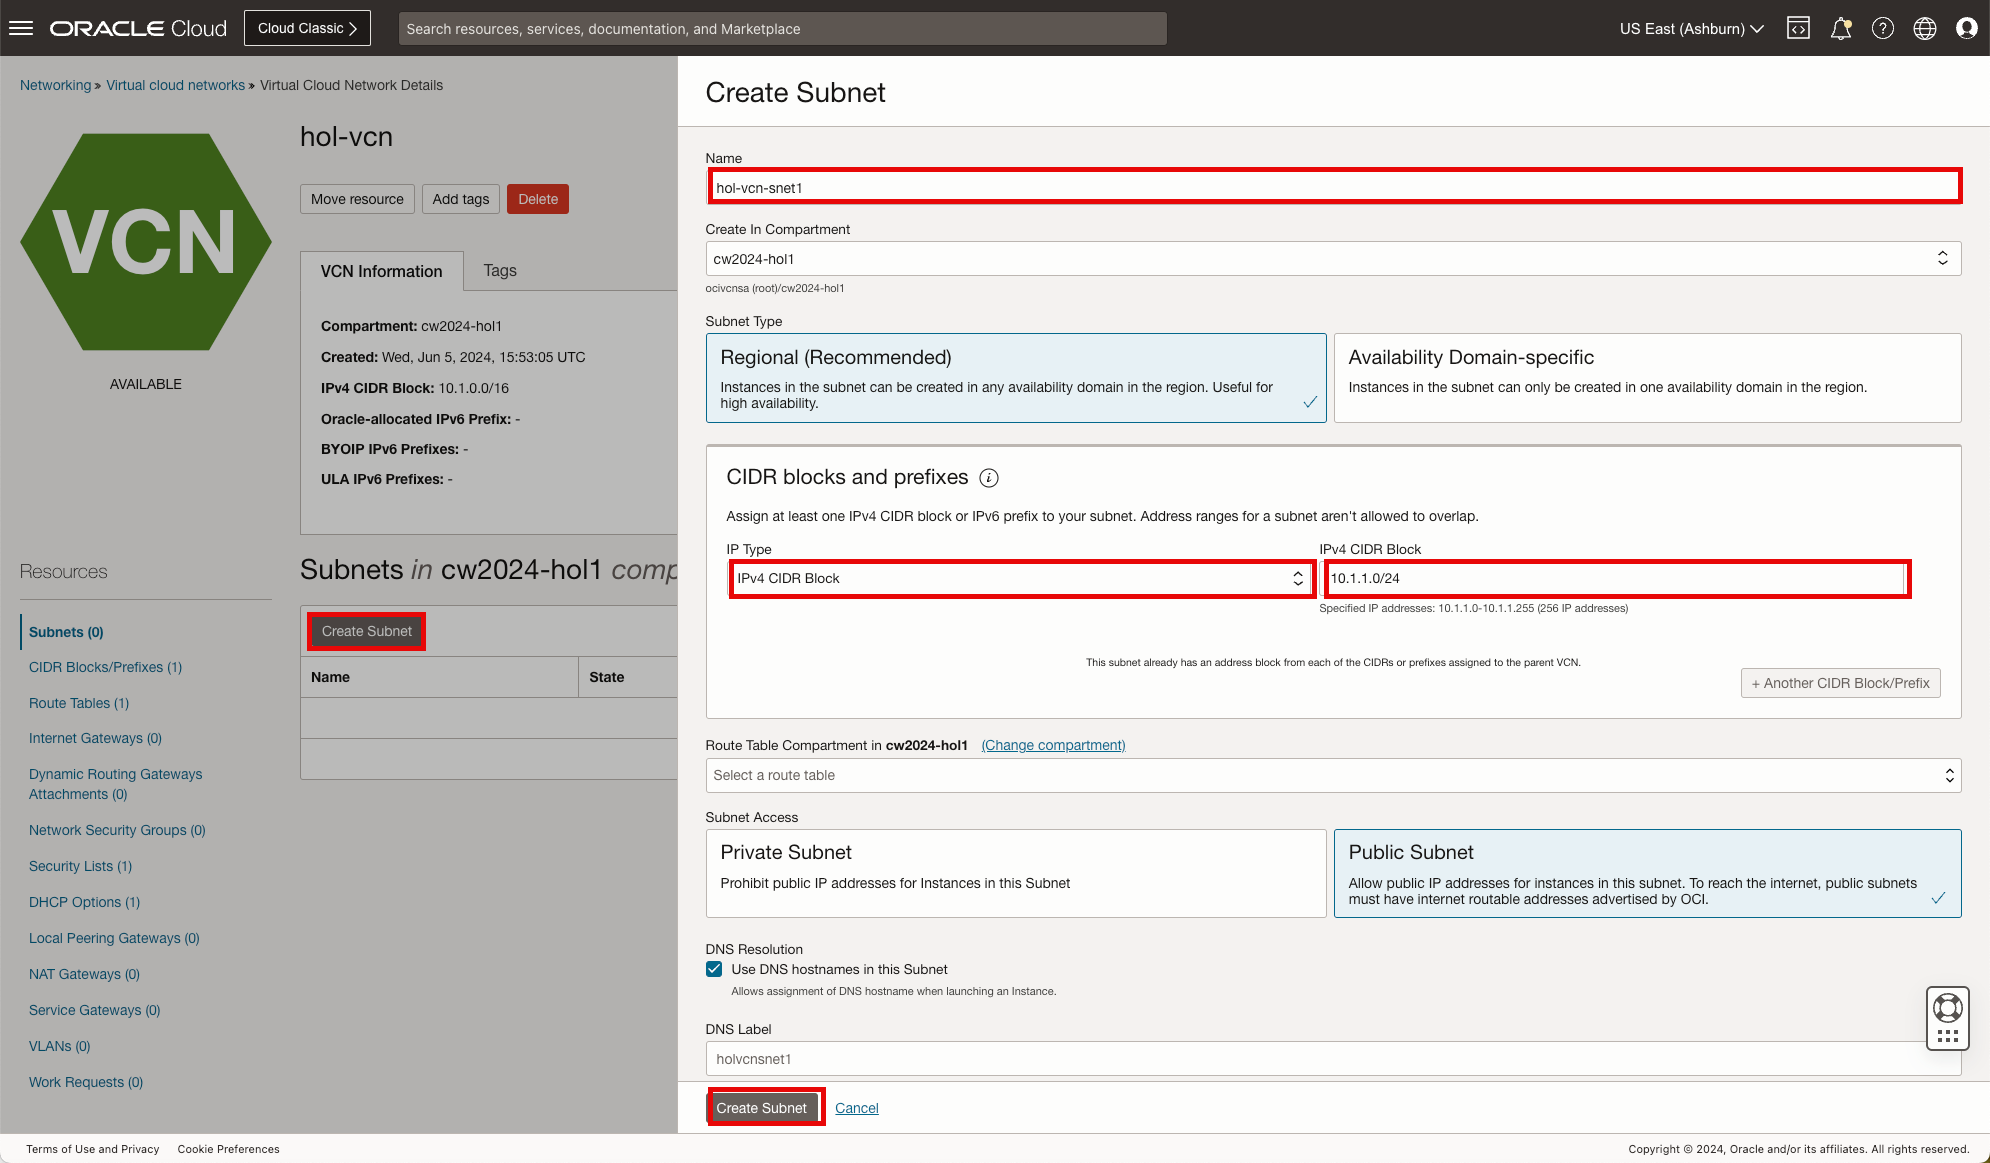
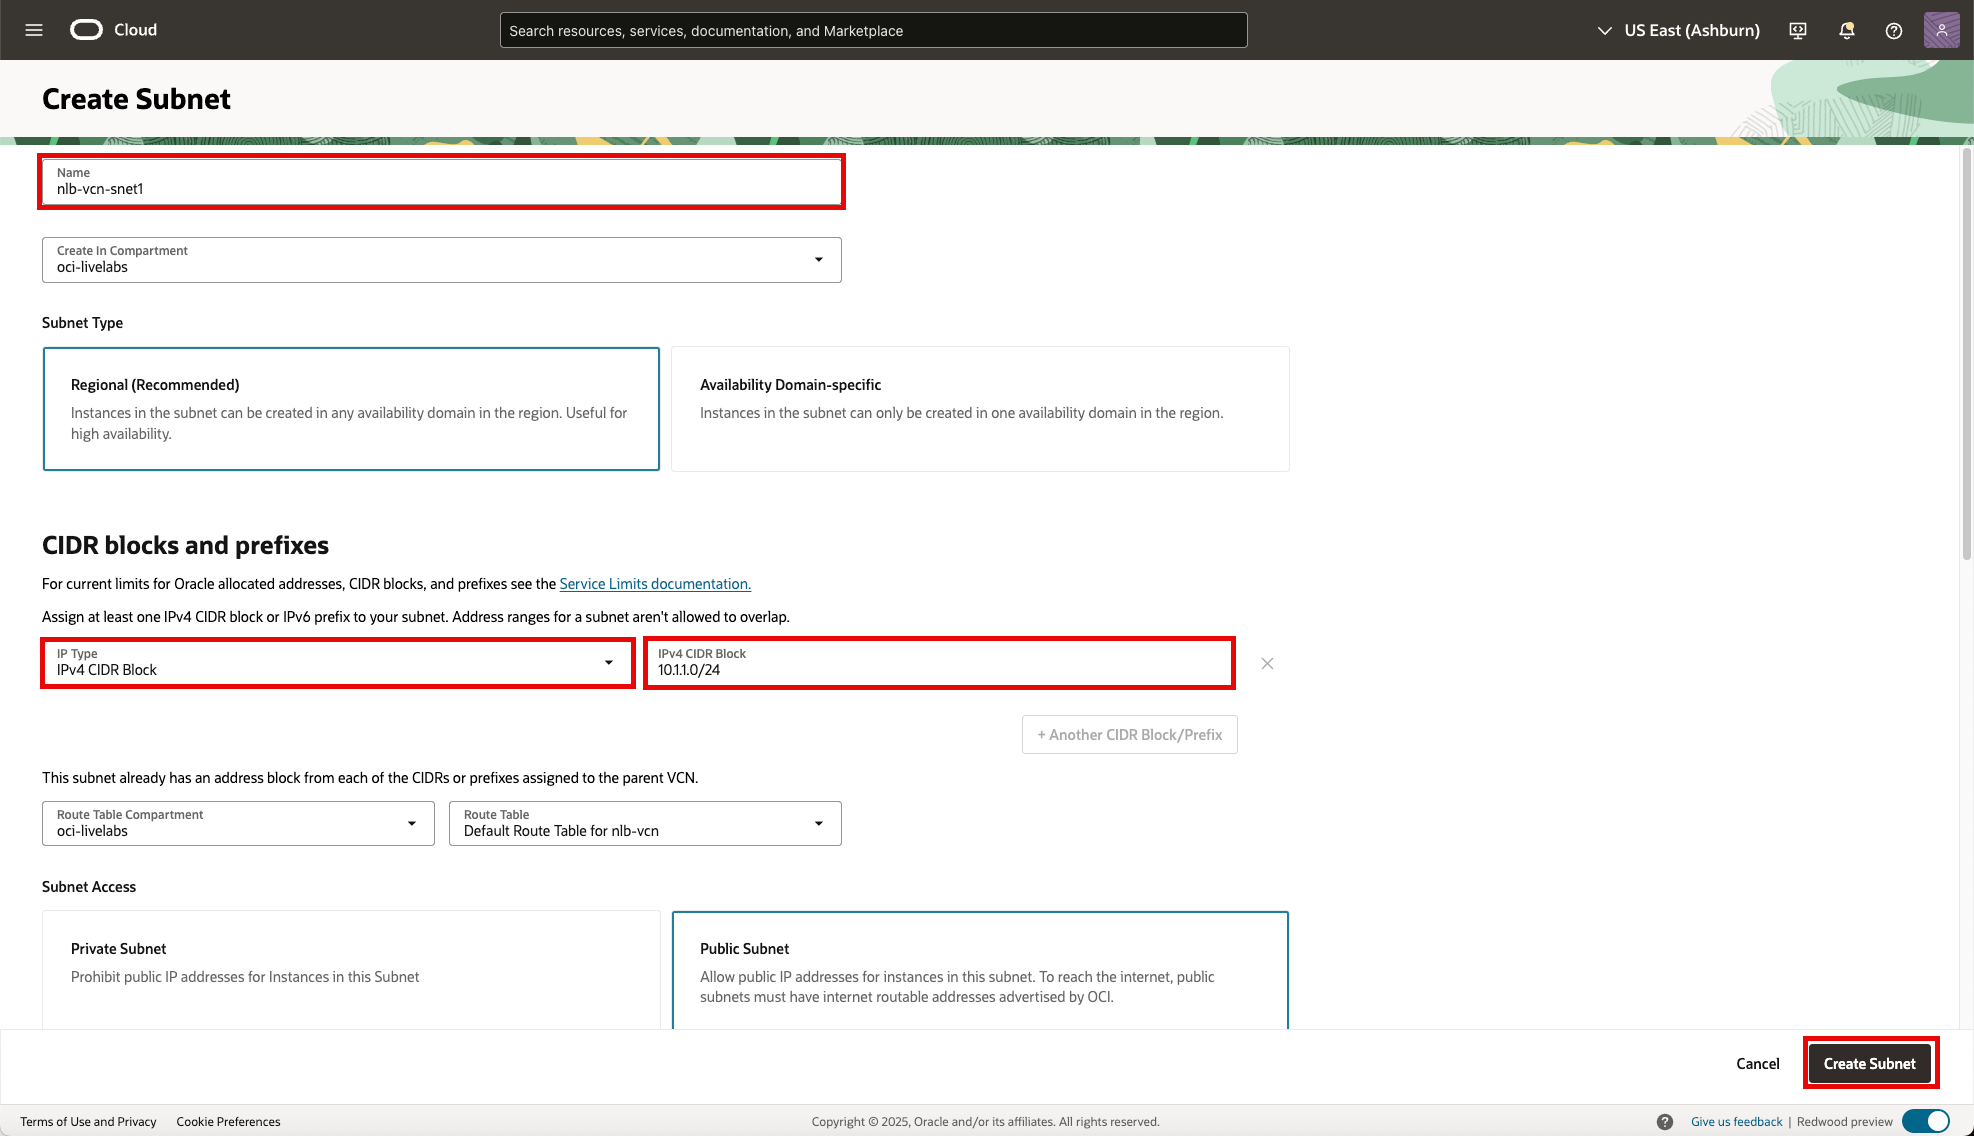
Lab1 updates

diff --git a/oci-network-load-balancer/lab1/lab1.md b/oci-network-load-balancer/lab1/lab1.md
@@ -23,7 +23,7 @@ In this lab, you will:
 
 When you complete the exercise, the network topology will look like the following, one VCN and three subnets.
 
-![vcnsubnetoverview-slide](images/lb-overview.png)
+![lb-overview](images/lb-overview.png)
 
 ### Prerequisites
 
@@ -43,7 +43,7 @@ Let's begin.
 
 ## Task 2: Create a VCN (Virtual Cloud Network)
 
-We will start with a basic VCN deployment. One of the goals of this **livelab** is also to provide an understanding of OCI constructs needed for deploying the compute instances and creating connections to view the VTAP and Flow Logs. For this reason, we will not use the VCN Wizard which deploys all OCI Gateways and creates basic routing rules. Instead, we will manually create each artifact as needed.
+We will start with a basic VCN deployment. One of the goals of this **livelab** is also to provide an understanding of OCI constructs needed for deploying the compute instances and creating a load balanced application using the NLB. For this reason, we will not use the VCN Wizard which deploys all OCI Gateways and creates basic routing rules. Instead, we will manually create each artifact as needed.
 
 Let's begin.
 
@@ -78,7 +78,17 @@ Now that we have a VCN created, we will create three subnets for the compute and
 
 Let's begin.
 
-1. In the Subnets table, Click **Create Subnet** to create the first subnet. The first subnet will provide network access for the compute instance representing the client.
+1. Select the created **VCN** in the table. Once selected, the VCN **Details** will be displayed in the landing page.
+
+    * Name: **"nlb-vcn"**
+
+        ![vcn-details](images/vcn-details.png)
+
+2. In the VCN table, Click **Subnets** then **Create Subnet** to create the first subnet. The first subnet will provide network access for the public facing load balancer.
+
+    * Click **"Subnets"**
+
+        ![subnet-selectsubnets](images/subnet-selectsubnets.png)
 
     * Click **"Create Subnet"**
     * Name: **"nlb-vcn-snet1"**
@@ -88,9 +98,9 @@ Let's begin.
 
         ![subnet-createsubnet1](images/subnet-createsubnet1.png)
 
-        **Note**: We will repeat this step for the additional subnets.
+        **Note**: We will repeat this step for the additional subnet.
 
-2. In the Subnets table, Click **Create Subnet** to create the second subnet. The second subnet will provide network access for the compute instance representing the server.
+3. In the Subnets table, Click **Create Subnet** to create the second subnet. The second subnet will provide network access for the compute instances representing the web servers.
 
     * Click **"Create Subnet"**
     * Name: **"nlb-vcn-snet2"**
@@ -100,66 +110,99 @@ Let's begin.
 
         ![subnet-createsubnet2](images/subnet-createsubnet2.png)
 
-3. The **subnets** are created, you can now move forward to the **Next Task**.
+4. The **subnets** are created, you can now move forward to the **Next Task**.
 
     ![subnet-list](images/subnet-list.png)
 
 ## Task 4: Create Internet Gateway
 
-1. Create the internet gateway
+1. In the VCN table, Click **Gateways** then **Create Internet Gateway** to create the internet gateway.
+
+    * Click **"Gateways"**
+    * Click **"Create Internet Gateway"**
+
+        ![gateways-selectgateways](images/gateways-selectinternetgateway.png)
+
+2. Create the Internet Gateway.
+
+    * Name: **"nlb-vcn-igw"**
+    * Click **"Create Internet Gateway"**
+
+        ![gateways-createinternetgateway](images/gateways-createinternetgateway.png)
+
+3. Internet Gateways.
+
+    * Internet Gateways
+
+        ![gateways-internetgateways](images/gateways-internetgateways.png)
 
 ## Task 4: Update Routing Table
 
-1. Update the routing table
+1. In the VCN table, Click **Routing** then **Default Route Table for nlb-vcn** to create the internet gateway route.
+
+    * Click **"Routing"**
+    * Click **"Default Route Table for nlb-vcn"**
+
+        ![routing-selectrouting](images/routing-selectrouting.png)
+
+2. Select the Route Rule.
+
+    * Click **"Route Rules"**
+    * Click **"Add Route Rules"**
+
+        ![routing-addrouterules](images/routing-addrouterules.png)
+
+3. Add the Route Rule.
+
+    * Target Type: **"Internet Gateway"**
+    * Destination CIDR Block **"0.0.0.0/0"**
+    * Target Internet Gateway: **"nlb-vcn-igw"**
+    * Click **"Add Route Rules"**
+
+        ![gateways-createinternetgateway](images/gateways-createinternetgateway.png)
+
+4. Default Internet Gateway route.
+
+    * Route Rules
+
+        ![routing-routerules](images/routing-routerules.png)
 
 ## Task 4: Update Security List
 
-Unlike other security lists, the default security list comes with an initial set of stateful rules, which should in most cases be changed to only allow inbound traffic from authorized subnets relevant to the region that homes that VCN or subnet. For this exercise we will modify the default security list to include the VTAP port UDP 4789. VTAP uses this port/protocol to send collected flows to the desired monitor.
+Unlike other security lists, the default security list comes with an initial set of stateful rules, which should in most cases be changed to only allow inbound traffic from authorized subnets relevant to the region that homes that VCN or subnet. For this exercise we will modify the default security list to include the web server port, TCP 80.
 
 Let's begin.
 
-1. On the Oracle Cloud Infrastructure Console Home page, using the Navigation menu (on top left) click **Networking** and click on **Virtual cloud networks**.
+1. In the VCN table, Click **Security** then **Default Security List for nlb-vcn** to create the internet gateway route.
 
-    * Click the Navigation Menu (top left corner)
-    * Click **"Networking"**
-    * Click **"Virtual cloud networks"**
+    * Click **"Security"**
+    * Click **"Default Security List for nlb-vcn"**
 
-      ![vcn-navigation](images/vcn-navigation.png)
+        ![security-selectsecurity](images/security-selectsecurity.png)
 
-2. Select the VCN.
+2. Select the **Security rules** and **Add Ingress Rultes**.
 
-    * Select VCN **"nlb-vcn"**
+    * Click **"Security rules"**
+    * Click **"Ingress Rules"**
 
-      ![cn-vcn](images/vcn-vcn.png)
+        ![security-addsecurityrules](images/security-addsecurityrules.png)
 
-3. On the VCN page, under **Resources** click **Security List**.
-
-    * Click **"Security Lists"**
-
-      ![vcn-securitylists](images/vcn-securitylists.png)
-
-4. On the Security list page, click **Default Security List**
-
-    * Click **"Default Security Lists for vcn-lab"**
-
-      ![vcn-selectdefaultsl](images/vcn-selectdefaultsl.png)
-
-5. On the Default Security Lists page under **Ingress Rules** click **Add Ingress Rules**.
-
-    * Click **"Add Ingress Rules"**
-
-      ![vcn-addingressrulessl](images/vcn-addingressrulessl.png)
-
-6. On the Add Ingress Rules page configure the rule.
+3. Add the Security List Rule.
 
     * Source CIDR: **"0.0.0.0/0"**
     * Select IP Protocol: **"TCP"**
     * Destination Port Range: **"80"**
     * Click **"Add Ingress Rules"**
 
-      ![vcn-addingressrulesslfinish](images/vcn-addingressrulesslfinish.png)
+        ![security-createingressrule](images/security-createingressrule.png)
 
-7. Click **Oracle Cloud** in the top left of the menu bar to return to the home page.
+4. Default Internet Gateway route.
+
+    * Security List Rules
+
+        ![security-securityrules](images/security-securityrules.png)
+
+5. Click **Oracle Cloud** in the top left of the menu bar to return to the home page.
 
     * Click **"Oracle CLoud"**
 
